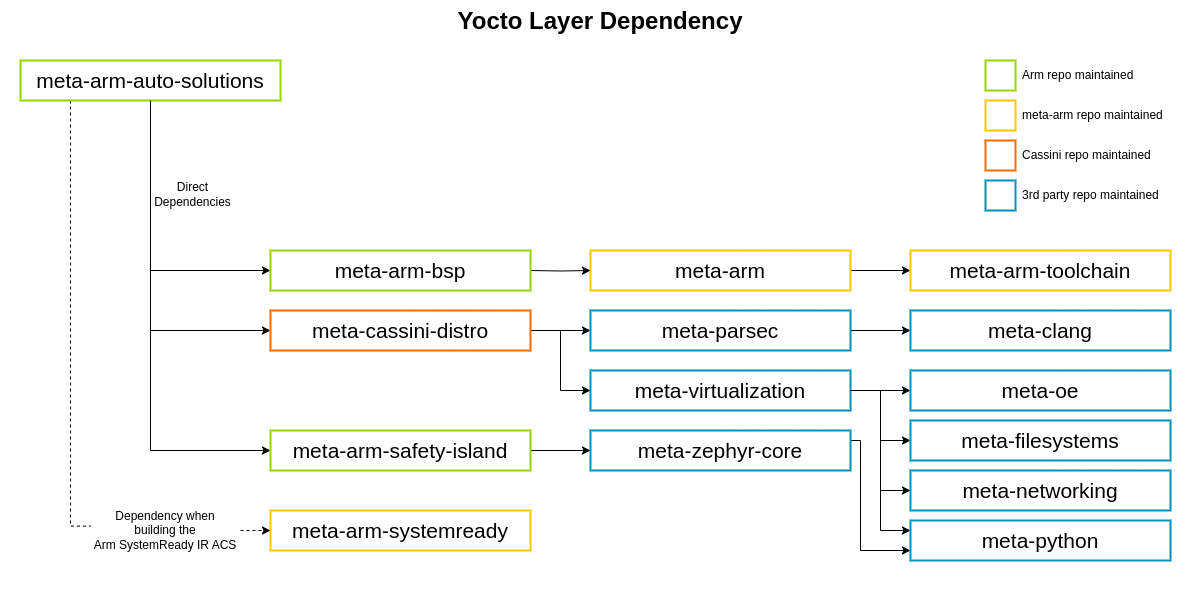
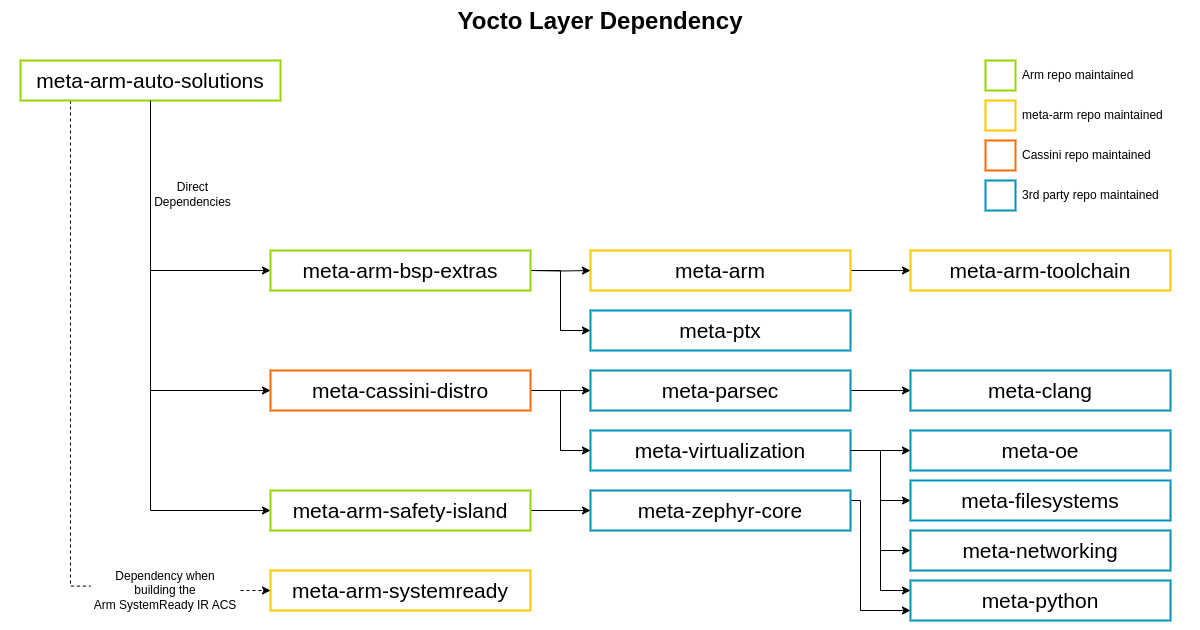
doc: Add meta-arm-bsp-extras to design page
Add a new section to describe the meta-arm-bsp-extras layer and refactor
the meta-arm-auto-solutions section to avoid duplicating information.

Update the layer dependencies diagram.

diff --git a/documentation/design/integration.rst b/documentation/design/integration.rst
@@ -14,21 +14,27 @@ integrate and validate the :ref:`Use-Cases <overview_use_cases>`.
 The Yocto Project version used by the Reference Software Stack
 is |yocto version|.
 
-***********************************
-meta-arm-auto-solutions Yocto Layer
-***********************************
+*******************************
+meta-arm-bsp-extras Yocto Layer
+*******************************
 
-The ``meta-arm-auto-solutions`` layer depends on the ``meta-arm-bsp`` layer
+The ``meta-arm-bsp-extras`` layer primarily depends on the ``meta-arm`` layer
 which implements the ``fvp-rd-kronos`` bitbake ``MACHINE`` definition to enable
 the Arm Automotive Solutions to run on the Arm Kronos Reference Design FVP
 (FVP_RD_Kronos).
 
-The layer ``meta-arm-auto-solutions`` is based on the `Cassini`_ distribution.
+***********************************
+meta-arm-auto-solutions Yocto Layer
+***********************************
+
+The ``meta-arm-auto-solutions`` layer is based on the `Cassini`_ distribution.
 It also contains a set of bitbake bbclasses, recipes and libraries to build,
 integrate, and validate the :ref:`overview_use_cases` with either or both the
 **Baremetal** and **Virtualization** Reference Software Stack Architectures
 as described in :ref:`Reference Software Stack Overview
 <overview_reference_software_stack_overview>`.
+
+It depends on a BSP layer such as the ``meta-arm-bsp-extras`` layer.
 
 The layer source code can be found at :repo:`yocto/meta-arm-auto-solutions`.
 
